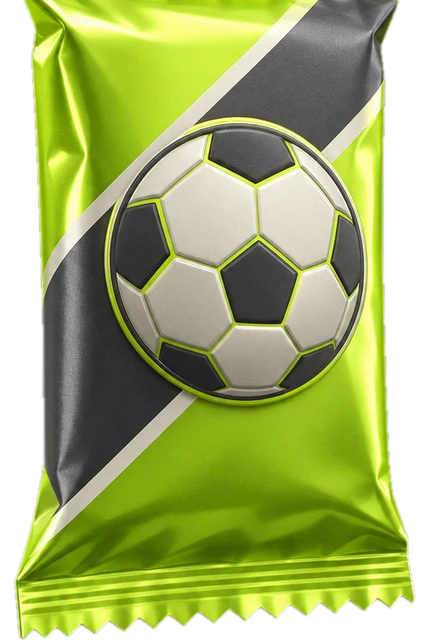
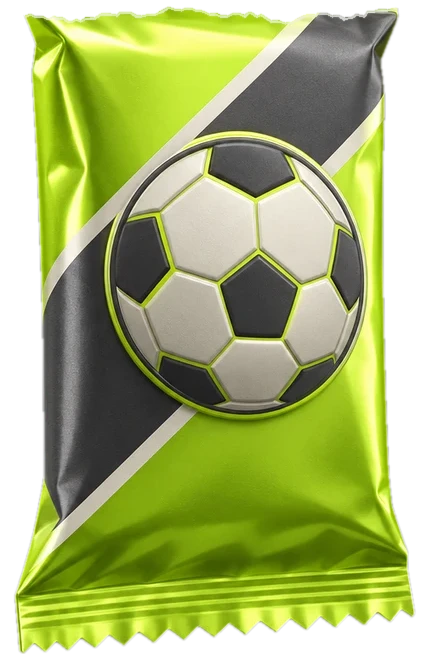
Tear the seal along an irregular line with matching edges
The seal and the pack body are cut along the same ragged line, with the foil's pale
inner layer showing as a rim on both torn edges, so the peeled strip's bottom matches the
tear left on the pack. The flap's leading edge is ragged too.

Claude-Session: https://claude.ai/code/session_017c8YPYxvxKxdCFyYabtU3a

Changed region(s): [[0.0304, 0.0, 0.9742, 0.9688], [0.7611, 0.75, 0.7916, 0.7812]]

diff --git a/apps/mobile/src/ui/paket.tsx b/apps/mobile/src/ui/paket.tsx
@@ -61,10 +61,20 @@ const PACK_IMG = require('../../assets/meshy/paket-tam.webp');
 /** The same art cut straight under its top seal into two pieces (assets/meshy/paket-ust|govde.webp). */
 const TOP_IMG = require('../../assets/meshy/paket-ust.webp');
 const BODY_IMG = require('../../assets/meshy/paket-govde.webp');
-const TOP_H = PACK_W * 80 / 427;
-const BODY_H = PACK_W * 640 / 427;
+const SRC = PACK_W / 427; // the pack art is 427 px wide
+/** The seal and the body meet along a torn, irregular line around y = 80 of the art (see scratch cut4). */
+const TOP_H = 94 * SRC;
+const BODY_TOP = 66 * SRC;
+const BODY_H = 654 * SRC;
 /** Where the strip is cut; the light and the sparks come out of this line. */
-const CUT_Y = TOP_H;
+const CUT_Y = 80 * SRC;
+/** A ragged vertical rim for the flap's torn leading edge. */
+const TEAR_EDGE = (() => {
+  const steps = [0, 0.14, 0.27, 0.41, 0.52, 0.66, 0.78, 0.9, 1];
+  const jag = [3, 1.2, 4, 2, 3.6, 1, 3.2, 1.6, 2.8];
+  const right = steps.map((k, i) => `${(5 - jag[i] + 2).toFixed(1)} ${(k * TOP_H).toFixed(1)}`);
+  return `M 5 0 L ${right.join(' L ')} L 5 ${TOP_H.toFixed(1)} Z`;
+})();
 /** The peeled-back flap slides over the part still stuck down by this share of the peeled length. */
 const FOLD = 0.55;
 /** How far the flap lifts off the pack while it is pulled. */
@@ -301,7 +311,7 @@ export function PackOpening({ stage, onDone }: { stage: PackStage; onDone: () =>
   const cut = useAnimatedStyle(() => ({ opacity: tear.value > 0 || fly.value > 0 ? 1 : 0 }));
   const peekStyle = useAnimatedStyle(() => ({
     opacity: 1 - 0.6 * fly.value,
-    width: Math.max(0, Math.min(PACK_W - 12, tear.value * PACK_W * FOLD + fly.value * PACK_W - 6)),
+    width: Math.max(0, Math.min(PACK_W - 24, tear.value * PACK_W * FOLD + fly.value * PACK_W - 12)),
   }));
   const bloomStyle = useAnimatedStyle(() => ({ opacity: bloom.value, transform: [{ scale: 0.6 + 0.4 * bloom.value }] }));
   const fan = useAnimatedStyle(() => ({
@@ -357,19 +367,19 @@ export function PackOpening({ stage, onDone }: { stage: PackStage; onDone: () =>
         <Animated.View style={[{ position: 'absolute', left: 0, top: 0, width: PACK_W, height: PACK_H }, sealed]}>
           <Image source={PACK_IMG} style={{ width: PACK_W, height: PACK_H }} contentFit="fill" />
         </Animated.View>
-        <Animated.View style={[{ position: 'absolute', left: 0, top: TOP_H, width: PACK_W, height: BODY_H }, cut]}>
+        <Animated.View style={[{ position: 'absolute', left: 0, top: BODY_TOP, width: PACK_W, height: BODY_H }, cut]}>
           <Image source={BODY_IMG} style={{ width: PACK_W, height: BODY_H }} contentFit="fill" />
         </Animated.View>
         <Glint x={PACK_W - 60} y={90} size={26} delay={0} reduced={reduced} />
         <Glint x={26} y={PACK_H - 86} size={18} delay={900} reduced={reduced} />
         <Glint x={PACK_W - 40} y={PACK_H - 120} size={14} delay={1600} reduced={reduced} />
         {/* The light that shows through the opening as the seal slides off it; the strip's own edge hides its end. */}
-        <Animated.View style={[{ position: 'absolute', left: 6, top: CUT_Y - 13, height: 22, overflow: 'hidden' }, peekStyle]}>
+        <Animated.View style={[{ position: 'absolute', left: 12, top: CUT_Y - 13, height: 22, overflow: 'hidden' }, peekStyle]}>
           <Svg width={PACK_W - 12} height={22}>
             <Defs>
               <LinearGradient id="packPeek" x1="0" y1="0" x2="0" y2="1">
                 <Stop offset="0" stopColor="#FFFFFF" stopOpacity={0} />
-                <Stop offset="0.62" stopColor="#FFFFFF" stopOpacity={0.8} />
+                <Stop offset="0.62" stopColor="#FFFFFF" stopOpacity={0.65} />
                 <Stop offset="1" stopColor="#F4FFD0" stopOpacity={0} />
               </LinearGradient>
             </Defs>
@@ -387,6 +397,10 @@ export function PackOpening({ stage, onDone }: { stage: PackStage; onDone: () =>
           {/* The peeled flap, on top of it, with a soft shadow where it lifts. */}
           <Animated.View style={[{ position: 'absolute', left: 0, top: 0, height: TOP_H, overflow: 'hidden', shadowColor: '#000', shadowOpacity: 0.55, shadowRadius: 5, shadowOffset: { width: 0, height: 3 } }, flap]}>
             <Image source={TOP_IMG} style={{ width: PACK_W, height: TOP_H }} contentFit="fill" />
+            {/* Its leading edge is torn too: a ragged pale rim where the foil gave way. */}
+            <Svg width={5} height={TOP_H} style={{ position: 'absolute', right: 0, top: 0 }}>
+              <Path d={TEAR_EDGE} fill="#ECF0E2" fillOpacity={0.9} />
+            </Svg>
           </Animated.View>
         </Animated.View>
       </Animated.View>
